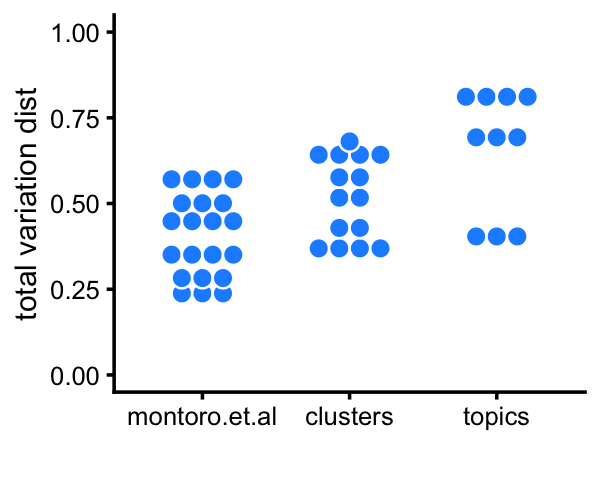
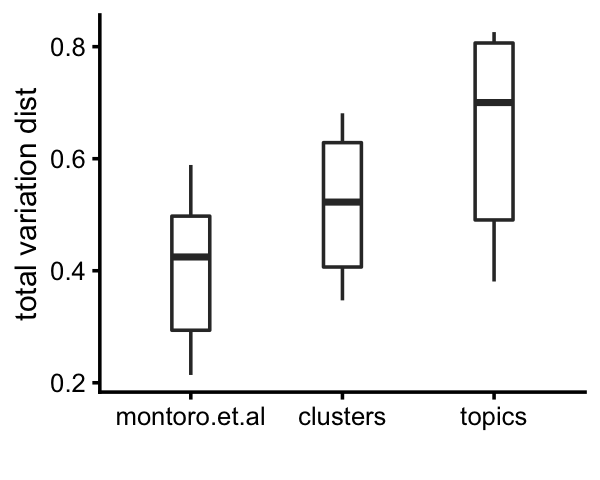
Replaced dotplot with boxplot in clusters_pulseseq analysis.

diff --git a/docs/clusters_droplet.html b/docs/clusters_droplet.html
@@ -414,16 +414,16 @@ This reproducible <a href="http://rmarkdown.rstudio.com">R Markdown</a> analysis
 <div class="panel panel-default">
 <div class="panel-heading">
 <p class="panel-title">
-<a data-toggle="collapse" data-parent="#workflowr-checks" href="#strongRepositoryversionstrongahrefhttpsgithubcomstephenslabsinglecelltopicstreebdcb88ecb9cc01a42d047cf741959cf80e97a072targetblankbdcb88ea"> <span class="glyphicon glyphicon-ok text-success" aria-hidden="true"></span> <strong>Repository version:</strong> <a href="https://github.com/stephenslab/single-cell-topics/tree/bdcb88ecb9cc01a42d047cf741959cf80e97a072" target="_blank">bdcb88e</a> </a>
+<a data-toggle="collapse" data-parent="#workflowr-checks" href="#strongRepositoryversionstrongahrefhttpsgithubcomstephenslabsinglecelltopicstree60b069fc0b514c4326cf1228d8b0844fa21bef18targetblank60b069fa"> <span class="glyphicon glyphicon-ok text-success" aria-hidden="true"></span> <strong>Repository version:</strong> <a href="https://github.com/stephenslab/single-cell-topics/tree/60b069fc0b514c4326cf1228d8b0844fa21bef18" target="_blank">60b069f</a> </a>
 </p>
 </div>
[2 lines of base64/hex data omitted]
 <div class="panel-body">
 <p>
 Great! You are using Git for version control. Tracking code development and connecting the code version to the results is critical for reproducibility.
 </p>
 <p>
-The results in this page were generated with repository version <a href="https://github.com/stephenslab/single-cell-topics/tree/bdcb88ecb9cc01a42d047cf741959cf80e97a072" target="_blank">bdcb88e</a>. See the <em>Past versions</em> tab to see a history of the changes made to the R Markdown and HTML files.
+The results in this page were generated with repository version <a href="https://github.com/stephenslab/single-cell-topics/tree/60b069fc0b514c4326cf1228d8b0844fa21bef18" target="_blank">60b069f</a>. See the <em>Past versions</em> tab to see a history of the changes made to the R Markdown and HTML files.
 </p>
 <p>
 Note that you need to be careful to ensure that all relevant files for the analysis have been committed to Git prior to generating the results (you can use <code>wflow_publish</code> or <code>wflow_git_commit</code>). workflowr only checks the R Markdown file, but you know if there are other scripts or data files that it depends on. Below is the status of the Git repository when the results were generated:
@@ -489,6 +489,40 @@ Message
 </tr>
 </thead>
 <tbody>
+<tr>
+<td>
+Rmd
+</td>
+<td>
+<a href="https://github.com/stephenslab/single-cell-topics/blob/60b069fc0b514c4326cf1228d8b0844fa21bef18/analysis/clusters_droplet.Rmd" target="_blank">60b069f</a>
+</td>
+<td>
+Peter Carbonetto
+</td>
+<td>
+2020-10-11
+</td>
+<td>
+workflowr::wflow_publish(“clusters_droplet.Rmd”)
+</td>
+</tr>
+<tr>
+<td>
+html
+</td>
+<td>
+<a href="https://rawcdn.githack.com/stephenslab/single-cell-topics/84e5598c9687b2bad264aa5b88eaea586d028102/docs/clusters_droplet.html" target="_blank">84e5598</a>
+</td>
+<td>
+Peter Carbonetto
+</td>
+<td>
+2020-10-11
+</td>
+<td>
+Fixed small mistake in clusters_droplet analysis.
+</td>
+</tr>
 <tr>
 <td>
 Rmd
@@ -1651,7 +1685,7 @@ Peter Carbonetto
 #   Ionocyte          9    0    1    0    0    1    1   14
 #   Neuroendocrine   27    4    6    0    0   51    0    8
 #   Tuft             27    5    5    0    1  111    2    7</code></pre>
-<p>By computing inter-cluster and inter-topic expression differences by the <em>total variation distance</em> in relative expression levels, we see that the clusters identified above show greater differentiation in gene expression, and the topics show more differentiation than the topics.</p>
+<p>By computing inter-cluster and inter-topic expression differences by the <em>total variation distance</em> in relative expression levels, we see that the clusters identified above show greater differentiation in gene expression, and the topics show more differentiation than the clusters.</p>
 <pre class="r"><code>fit_montoro &lt;- init_poisson_nmf_from_clustering(counts,samples$tissue)
 fit_cluster &lt;- init_poisson_nmf_from_clustering(counts,samples$cluster)
 fit_merge   &lt;- merge_topics(poisson2multinom(fit),c(&quot;k5&quot;,&quot;k7&quot;))
@@ -1693,10 +1727,8 @@ print(d_topics,digits = 3)
   rbind(data.frame(method=&quot;montoro.et.al&quot;,d=d_montoro[upper.tri(d_montoro)]),
         data.frame(method=&quot;clusters&quot;,     d=d_cluster[upper.tri(d_cluster)]),
         data.frame(method=&quot;topics&quot;,       d=d_topics[upper.tri(d_topics)]))
-p14a &lt;- ggplot(pdat,aes(x = method,y = d,color = I(&quot;white&quot;))) +
-  geom_dotplot(binaxis = &quot;y&quot;,stackdir = &quot;center&quot;,binwidth = 0.05,
-               dotsize = 1.2,fill = &quot;dodgerblue&quot;) +
-  ylim(0,1) +
+p14a &lt;- ggplot(pdat,aes(x = method,y = d)) +
+  geom_boxplot(width = 0.25) +
   labs(x = &quot;&quot;,y = &quot;total variation dist&quot;) +
   theme_cowplot(font_size = 9)
 print(p14a)</code></pre>
@@ -1738,7 +1770,7 @@ Peter Carbonetto
 </table>
 </div>
 </div>
-<p>This next plot provides a more direct comparison of the total variation distances among the 4 clusters that are comparable to the Montoro <em>et al</em> clusters:</p>
+<p>This next plot provides a more direct comparison of the total variation distances among the 5 clusters that are comparable to the Montoro <em>et al</em> clusters:</p>
 <pre class="r"><code>fit_montoro &lt;- merge_topics(poisson2multinom(fit_montoro),
                             c(&quot;Tuft&quot;,&quot;Neuroendocrine&quot;))
 d_montoro &lt;- totalvardist(fit_montoro$F[,c(&quot;Basal&quot;,&quot;Ciliated&quot;,&quot;Club&quot;,&quot;Goblet&quot;,
